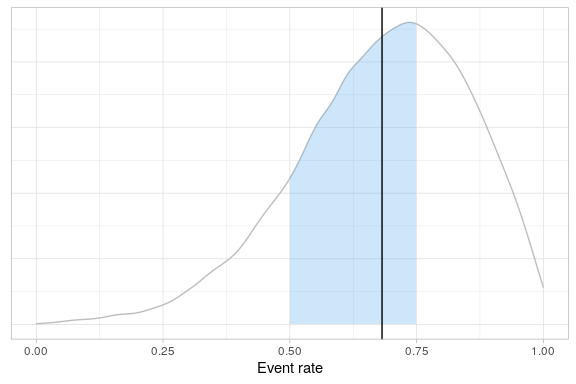
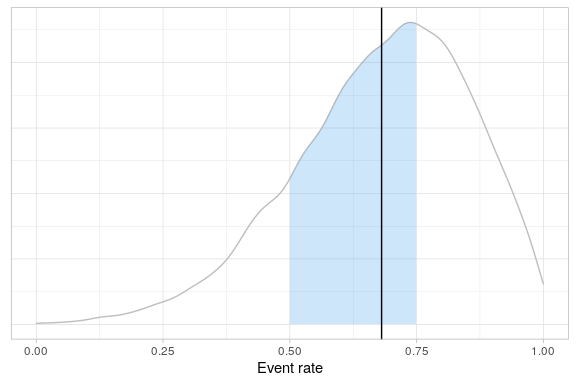
Update README for Poisson methods

diff --git a/README.md b/README.md
@@ -242,11 +242,11 @@ quantiles
 #> # A tibble: 1 × 2
 #>     Q05   Q95
 #>   <dbl> <dbl>
-#> 1 0.371 0.932
+#> 1 0.368 0.933
 ```
 
 So, in this specific case, our QTLs translate to observed event rates of
-37.07% and 93.22% respectively.
+36.81% and 93.32% respectively.
 
 Do any sites have observed event rates outside this range?
 
@@ -305,10 +305,10 @@ Upper
 1.000
 </td>
 <td style="text-align:right;">
-0.371
+0.368
 </td>
 <td style="text-align:right;">
-0.932
+0.933
 </td>
 </tr>
 <tr>
@@ -325,10 +325,10 @@ Upper
 0.357
 </td>
 <td style="text-align:right;">
-0.371
+0.368
 </td>
 <td style="text-align:right;">
-0.932
+0.933
 </td>
 </tr>
 </tbody>
@@ -374,7 +374,7 @@ fitted$tab %>%
 #> # A tibble: 1 × 1
 #>   PosteriorProb
 #>           <dbl>
-#> 1         0.470
+#> 1         0.461
 ```
 
 Again, the QTL is breached, and the process can be summarised
@@ -586,27 +586,29 @@ table %>% createObservedOverExpectedPlot(observedRate=ObservedRate)
 ## Beyond Transcelerate
 
 At the time of writing (late 2022) The Transcelerate Quality Tolerance
-Limit Framework (Inc 2020) lists metrics that are exclusively binary in
-nature. There are many other potential metrics that are non-binary and
-which may provide insight into the conduct of the trial. For example,
+Limit Framework (Transcelerate 2020) lists metrics that are exclusively
+binary in nature. There are many other potential metrics that are
+non-binary and which may provide insight into the conduct of the trial.
+For example,
 
 -   The number of episodes of rescue medication (as opposed to the
     percentage or number of trial participants on rescue medication)
--   Time to withdrawal of consent (as percentage or number of trial
-    participants with withdrawal of informed consent)
+-   Time to withdrawal of consent (as opposed to the percentage or
+    number of trial participants with withdrawal of informed consent)
 
-As well as other metrics that can’t esily be dichotomised
+As well as other metrics that can’t easily be dichotomised
 
 -   Drug plasma levels
 -   Number of (S)AEs reported per time unit of drug exposure
+-   Time to respond to data queries
 
 The Bayesian QTL framework implemented in `rbqmR` can easily be extended
 to include these other data types.
 
 ### Events per unit time
 
-Bortkiewicz’s data on the numbers of Prussian cavalry officers kicked to
-death by horses (Bortkiewicz 1898) can be used to illustrate the method.
+We use data on the numbers of Prussian cavalry officers kicked to death
+by horses (Bortkiewicz 1898) to illustrate the method.
 
 ``` r
 data("cavalryDeaths")
@@ -711,19 +713,19 @@ Pharmaceutical Company.” *PharmaSUG*.
 
 </div>
 
-<div id="ref-Transcelerate2020" class="csl-entry">
-
-Inc, Transcelerate Biopharma. 2020. “Quality Tolerance Limits
-Framework.” Research report. Transcelerate Biopharma Inc. 2020.
-<https://www.transceleratebiopharmainc.com/wp-content/uploads/2020/10/TransCelerate_InterpretationsOfClinical-GuidancesAndRegulations_Quality-Tolerance-Limits-Framework_October-2020.pdf>.
-
-</div>
-
 <div id="ref-KATZ" class="csl-entry">
 
 Katz D, Azen SP, Baptista J. 1978. “Obtaining Confidence Intervals for
 the Risk Ratio in Cohort Studies.” *Biometrics* 34 (3): 469–74.
 https://doi.org/<https://doi.org/10.2307/2530610>.
+
+</div>
+
+<div id="ref-Transcelerate2020" class="csl-entry">
+
+Transcelerate. 2020. “Quality Tolerance Limits Framework.” Research
+report. Transcelerate Biopharma Inc. 2020.
+<https://www.transceleratebiopharmainc.com/wp-content/uploads/2020/10/TransCelerate_InterpretationsOfClinical-GuidancesAndRegulations_Quality-Tolerance-Limits-Framework_October-2020.pdf>.
 
 </div>
 
